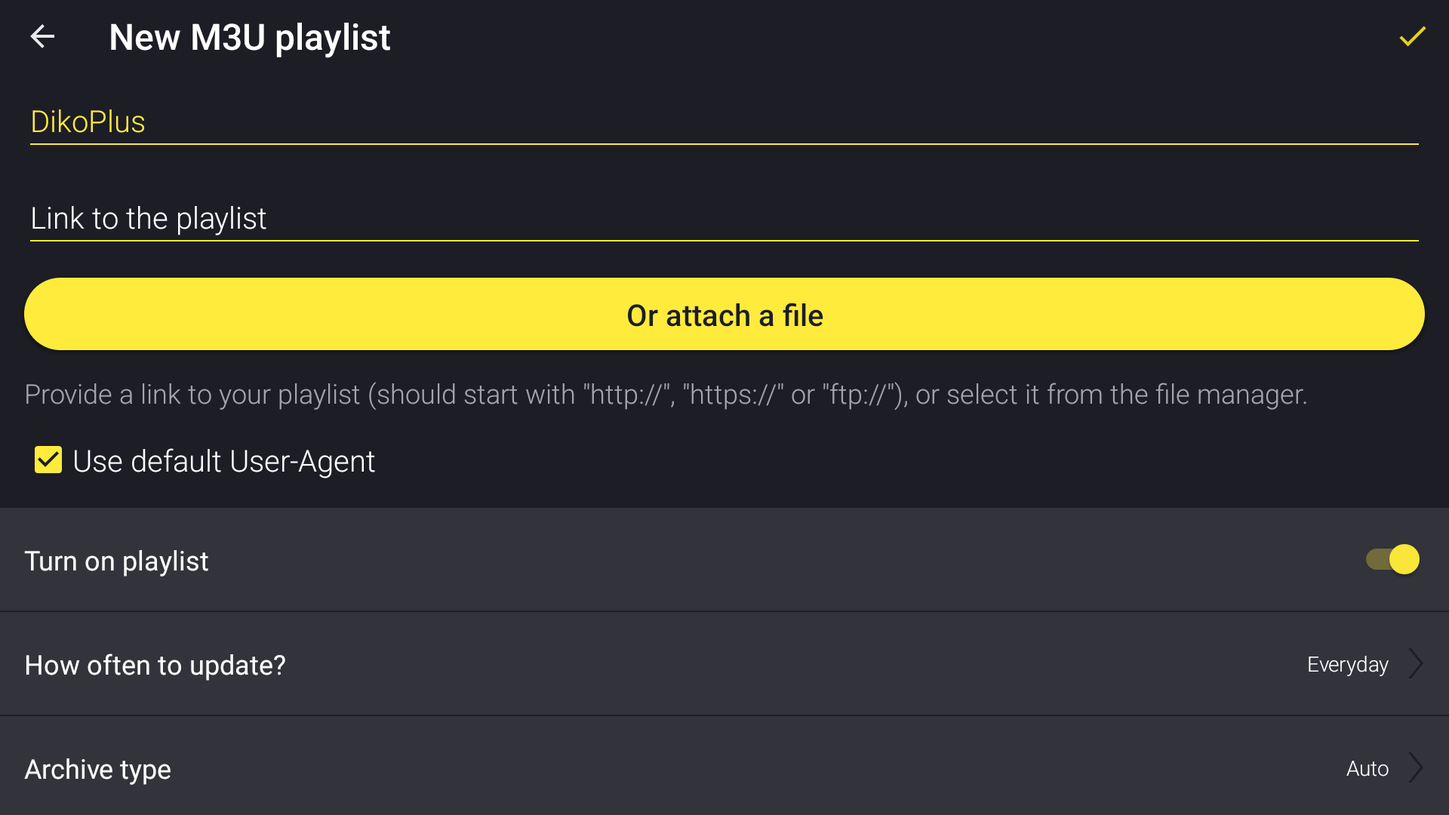
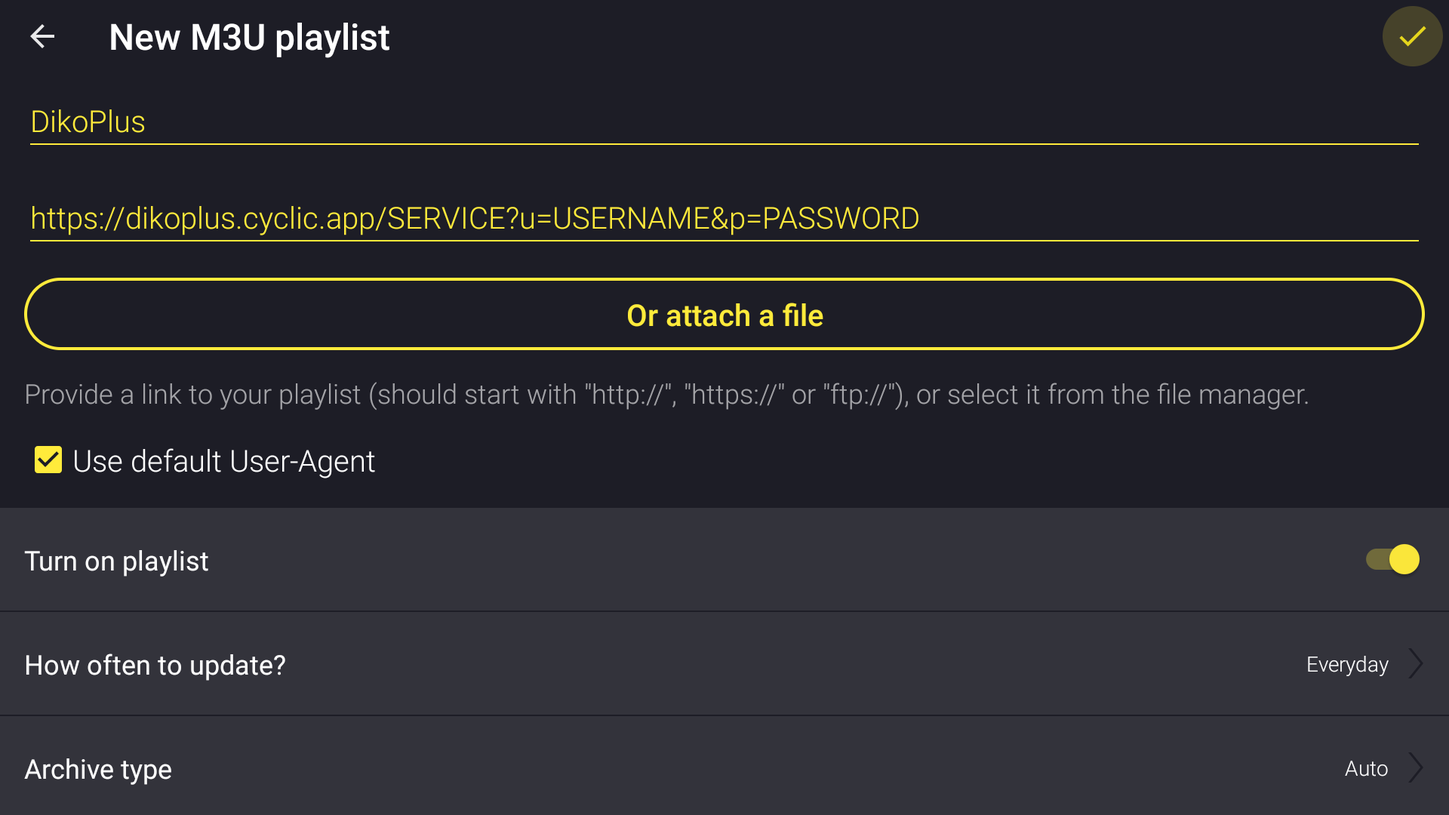
Updates descriptions for v2.0 in IPTV players

diff --git a/index.html b/index.html
@@ -108,11 +108,11 @@
     <p class="hebp">
         <h3 class="hebh3">!הודעות חשובות לקריאה לפני שימוש באשף יצירת הקובץ</h3>
         <ul dir="rtl">
-          <li>זה א שירות IPTV חינמי! כדי להשתמש בשירות זה אתם עדיין נדרשים לרכוש את השירות מאחד מספקי השירות המומלצים בקבוצה!</li>
+          <li>זה איננו שירות IPTV חינמי! כדי להשתמש בשירות זה אתם עדיין נדרשים לרכוש את השירות מאחד מספקי השירות המומלצים בקבוצה!</li>
           <li>לאחר רכישת אחד מהשירותים, הכלי הזה נועד על מנת לשפר את חווית המשתמש בשירותים הללו. כפי שניתן לראות בדוגמא בסרטון מעל, שימוש בכלי הזה מוסיף פלייליסט נוסף לנגן ה-IPTV שלכם עם ערוצי ישראל מסודרים בקבוצות, עם כל הלוגואים המעודכנים, עם השמות ערוצים הנכונים ובעברית ועם לוח שידורים מלא ומדוייק.</li>
-          <li>השירות הזה הינו כולו נכתב בקוד פתוח. הינכם מוזמנים לבחון את הקוד בעצמכם, אם תרצו בכך, כדי לראות שאנחנו לא שומרי אף פרט אישי במערכת, אלא רק מספקים את הקישורים המתאימים לפלייליסט.</li>
-          <li>הינכם נדרשים להוסיף את הפלייליסט לנגן שלכם פעם אחת בלבד. מתעדכנת באופן אוטומטי, גם בקישור הערוצים וגם בלוח השידורים.</li>
-          <li>לצערי, אין כרגע ספק לוח שידורים אחד שהינו יציב ומקיף את כל הערוצים. אני הצלחתי לייצר פלייליסט שכולל כמעט את כל הערוצים עם ספק לוח שידורים אלקטרוני אחד. קיימת אפשרות להוסיף יותר מספק לוח שידורים אחד על מנת לקבל לוח כמעט מלא לחלוטין. אפשרות זאת נתמכת על ידי מגוון נגנים,כגון; טיוימייט, טלויזו ו-IPTV Pro. אני עדיין עובד אם ספק לוח השידורים כדי להכיל את הכל ברשימה אחת.</li>
+          <li>השירות הזה הינו כולו נכתב בקוד פתוח. הינכם מוזמנים לבחון את הקוד בעצמכם, אם תרצו בכך, כדי לבחון ולראות שאנחנו לא שומרים אף פרט אישי במערכת, אלא רק מספקים את הקישורים המתאימים לפלייליסט.</li>
+          <li>הינכם נדרשים להוסיף את הפלייליסט לנגן שלכם פעם אחת בלבד. הפלייליסט יתעדכן באופן אוטומטי משינויים שנבצע בפלייליסט, גם בקישור הערוצים וגם בלוח השידורים.</li>
+          <li>לצערי, אין כרגע ספק לוח שידורים אחד שהינו יציב ומקיף את כל הערוצים. הצלחתי לייצר פלייליסט שכולל כמעט את כל הערוצים עם ספק לוח שידורים אלקטרוני אחד. במידה שנגן ה-IPTV שלכם תומך בהוספה של יותר מספק מלוח שידורים אחד, המדריך הזה יסביר לכם כיצד להוסיף אחד נוסף על מנת לקבל לוח כמעט מלא לחלוטין. אפשרות זאת נתמכת על ידי מגוון נגנים, כגון; טיוימייט, טלויזו ו-IPTV Pro.  כהערת צד, אני עדיין עובד אם ספק לוח השידורים מסויים כדי לנסות להכיל את הכל ברשימה אחת כדי לפשט את התהליך עוד יותר.</li>
         </ul>
     </p>
     <br><br>
@@ -123,7 +123,8 @@
     <div class="tab">
       <button class="tablinks" onclick="openCity(event, 'Tivimate')">Tivimate</button>
       <button class="tablinks" onclick="openCity(event, 'Televizo')">Televizo</button>
-      <button class="tablinks" onclick="openCity(event, 'General')">כללי</button>
+      <button class="tablinks" onclick="openCity(event, 'IPTVPro')">IPTV Pro</button>
+      <button class="tablinks" onclick="openCity(event, 'General')">נגן אחר</button>
     </div>
     
     <div id="Tivimate" class="tabcontent">
@@ -131,7 +132,10 @@
         <ul dir="rtl">
             <p>שימו לב!<br>התוכן פה מוצג תחת ההנחה שקניתם את גרסת הפרימיום של טיוימייט. הגרסה הפרוצה אונליין היא מאד ישנה ואיננה תומכת בכל האופציות המוצגות פה.</p>
           <h3>עקבו אחר הצעדים הבאים:</h3>
-          <li><b>שלב א׳: במידה ועדיין לא ביצעתם זאת, הוסיפו את השירות שרכשתם באופן רגיל, ללא קשר לפלייליסט הזה. השירות נותן לכם גישה לכל התכנים הנוספים של השירות שרכשתם. אם כבר ביצעתם את השלב הזה בעבר, אתם יכולים לדלג לשלב ב׳.</b></li>
+          <div class="alert">
+            <strong>שימו לב!<br></strong>במידה שהוספתם כבר את השירות שרכשתם לנגן שלכם, אתם יכולים לדלג על שלב א׳ ולעבור ישירות לשלב ב׳. שלב א׳ בהסבר מיועד למשתמשים חדשים שרק רכשו את השירות ומתחילים את ההגדרות כולן בשעם הראשונה.
+          </div>
+          <li><b>שלב א׳: הוסיפו את השירות שרכשתם באופן רגיל, ללא קשר לפלייליסט הזה. השירות נותן לכם גישה לכל התכנים הנוספים של השירות שרכשתם.</b></li>
             <ol>
               <li>לחצו על Add playlist</li>
                 <img src="img/tivimate-add-playlist.png" alt="Add playlist" class="inline"/><br>
@@ -183,51 +187,30 @@
       <p class="hebp">
         <ul dir="rtl">
           <h3>עקבו אחר הצעדים הבאים:</h3>
-            <div class="alert">
-              <strong>שימו לב!</strong> אם אתם רק צריכים לעדכן את הקובץ לגרסא חדשה, אתם יכולים לדלג על שלב א׳ של הוספת שירות דאטו/לייבגו. חשוב ביותר למחוק את הפלייליסט לפני שאתם טוענים את הקובץ מחדש.
-            </div>
-          <li><b>שלב א׳: הוסיפו את שירות דאטו/לייבגו באופן רגיל, ללא קשר לפלייליסט הזה. השירות נותן לכם גישה לכל התכנים הנוספים של שירות זה.</b></li>
+          <div class="alert">
+            <strong>שימו לב!<br></strong>במידה שהוספתם כבר את השירות שרכשתם לנגן שלכם, אתם יכולים לדלג על שלב א׳ ולעבור ישירות לשלב ב׳. שלב א׳ בהסבר מיועד למשתמשים חדשים שרק רכשו את השירות ומתחילים את ההגדרות כולן בשעם הראשונה.
+          </div>
+          <li><b>שלב א׳: הוסיפו את השירות שרכשתם באופן רגיל, ללא קשר לפלייליסט הזה. השירות נותן לכם גישה לכל התכנים הנוספים של השירות שרכשתם.</b></li>
             <ol>
-              <li><b>לחץ על Create playlist. במידה וקיבלתם הודעה שזהו נגן בלבד ואינו מכיל תוכן, תאשרו.</b></li>
+              <li>לחץ על Create playlist. במידה וקיבלתם הודעה שזהו נגן בלבד ואינו מכיל תוכן, תאשרו.</li>
                 <img src="img/televizo-livego-1.png" alt="Add playlist" class="inline"/><br>
               <li>בחרו את האופציה New Xtream Codes playlist.</li>
                 <img src="img/televizo-livego-2.png" alt="Add Xtream Codes" class="inline"/><br>
-              <li>הקלידו את הנתונים שניתנו לכם מספק השירות, כולל שם לפלייליסט, את כתובת השרת, שם המשתמש והסיסמה. בסיום, לחצו על האישור בפינה הימנית העליונה. במידה וקיבלתם הודעת אזהרה שטלויזו איננה אחראית לתוכן הפלייליסט, תאשרו.</li>
+              <li>הקלידו את הנתונים שניתנו לכם מספק השירות, כולל שם לפלייליסט, את כתובת השרת (בדוגמה בתמונה מוצג שירות לייבגו), שם המשתמש והסיסמה. בסיום, לחצו על האישור בפינה הימנית העליונה. במידה וקיבלתם הודעת אזהרה שטלויזו איננה אחראית לתוכן הפלייליסט, תאשרו.</li>
                 <img src="img/televizo-livego-3.png" alt="Xtream Codes setup" class="inline"/><br>
               <li>המערכת תזהה ותנתח את פרטי השירות במשך כמה שניות ואז תציג את כל הערוצים והתוכן ה-VOD שקיים בשירות. במידה וקיבלתם שגיאה, אנא חזרו אחרוה צעד אחד ובידקו את נכונות הפרטים שסיפקתם בשלב הקודם.</li>
                 <img src="img/televizo-livego-4.png" alt="Playlist added" class="inline"/><br>
-              <li>לאחר מספר שניות המערכת תסיים את ההוספה של השירות. אתם יכולים, לדוגמא, לפנות לעבר קטגוריית Hebrew לראות את מה שמסופק כברירת מחדל על ידי השירות. טיפ קטן, בפינה הימנית העליונה אתם יכולים לשנות את אופן התצוגה בהתאם לבחירתכם האישית.</li>
+              <li>לאחר מספר שניות המערכת תסיים את ההוספה של השירות. אתם יכולים, לדוגמא, לפנות לעבר קטגוריית העברית לראות את מה שמסופק כברירת מחדל על ידי השירות. טיפ קטן, בפינה הימנית העליונה אתם יכולים לשנות את אופן התצוגה בהתאם לבחירתכם האישית.</li>
                 <img src="img/televizo-livego-5.png" alt="Default Hebrew in LiveGo" class="inline"/><br>
             </ol>
-          <li><b>שלב ב׳: העברת הקובץ מהמחשב למכשיר הסטרימר ניתנת לביצוע בכמה דרכים. אני אפרט פה את אחת מהן. אתם מוזמנים לבצע זאת באיזו דרך שתרצו.</b></li>
-            <ol>
-              <li>מהמחשב שבו יצרתם את הקובץ, גשו בדפדפן לכתובת <a href="http://www.jocala.com/adblink2.html">http://www.jocala.com/adblink2.html</a>, הורד את התוכנה בהתאם למערכת ההפעלה שלך והפעל אותה.</li>
-                <img src="img/adblink-app.png" alt="AdbLink" class="inline"/><br>
-              <li>לחצו על New וספק את הפרטים הבאים: Description - שם פשוט עבור הסטרימר, Address - כתובת ה-IP של הסטרימר שלכם, Pull folder - הפנו את האפליקציה לעבר תיקיית ההורדות שלכם.</li>
-                <img src="img/adblink-device-setup.png" alt="AdbLink Dvice Setup" class="inline"/><br>
-              <li>לחצו על Connect. שימו לב שבפעם הראשונה שתנסו זאת תקבלו הודעת שגיאת התחברות! על מסך הטלויזיה שלכם אשרו את ניסיון ההתחברות כדי לאפשר זאת ונסו שוב להתחבר לסטרימר.</li>
-                <img src="img/adblink-connected.png" alt="AdbLink Connected" class="inline"/><br>
-              <li>לחצו על File manager, כאן תראו את מערכת הקבצים של מכשיר הסטרימר שלכם. בצד שמאל של המסך שנפתח, הקליקו פעמיים על תיקיית Download כדי לפתוח אותה.</li>
-                <img src="img/adblink-file-manager.png" alt="AdbLink File Manager" class="inline"/><br>
-              <li>לחצו על Push, בחלון שנפתח חפשו את הקובץ DikoPlus.m3u שיצרתם קודם באמצעות אשץ זה ולחצו על Choose כדי להעביר את הקובץ למכשיר הסטרימר.</li>
-                <img src="img/adblink-m3u-pushed.png" alt="AdbLink file pushed" class="inline"/><br>
-              <li>בשלב זה ניתן להתנתק ממכשיר הסטרימר. סגרו את חלון ה-File manager ולחצו על כפתור ה-Disconnect. אתם יכולים לסגור את האפליקציה במחשב לפנות חזרה למכשיר הסטרימר כדי להמשיך.</li>
-                <img src="img/adblink-disconnected.png" alt="AdbLink Disconnected" class="inline"/><br>
-            </ol>
-            <li><b>שלב ג׳: התקנת הקובץ המותאם אישית על מכשיר הסטרימר.</b></li>
+            <li><b>שלב ב׳: הגדרת הפלייליסט המותאם אישית על מכשיר הסטרימר.</b></li>
             <ol>
               <li>במסך הראשי של טלויזו, היכנסו להגדרות בפינה בימנית העליונה. בחרו באופציה הראשונה כדי להיכנס להגדרות ה-Playlists.</li>
                 <img src="img/televizo-dikoplus-1.png" alt="Add playlist" class="inline"/><br>
               <li>לחצו על סימן הפלוס בפינה בימנית העליונה כדי להוסיף פלייליסט נוסף. לאחר מכן, בחרו באופציה New M3U playlist.</li>
                 <img src="img/televizo-dikoplus-2.png" alt="Add playlist" class="inline"/><br>
-              <li>ספקו שם לפלייליסט. אני אשתמש ב-DikoPlus למטרת ההדגמה. בחרו את האופציה Or attach a file. אם תקבלו בקשה לאשר גישה למערכת הקבצים, אנא אשרו אותר.</li>
+              <li>הוסיפו שם שתרצו עבור הפלייליסט הנוסף והקלידו את לינק שירות ה-DikoPlus שיצרתם בשלב הראשון של המדריך הזה. </li>
                 <img src="img/televizo-dikoplus-3.png" alt="Add playlist" class="inline"/><br>
-              <li>בחרו באופצייה Open file manager. אם תקבלו בקשה לאשר גישה למערכת הקבצים, אנא אשרו אותה. חשוב לציין באתם צריכים לוודא שמותקנת לכם אפליקציית ניהול מערכת הקבצים כדי לזה יפעל נכונה. במקרה שלי אני משתמש ב-+File Manager אבל כל אפליקצייה תואמת תעבוד.</li>
-                <img src="img/televizo-dikoplus-4.png" alt="Add playlist" class="inline"/><br>
-              <li>נווטו לתיקיית Download ובחרו בקובץ DikoPlus.m3u.</li>
-                <img src="img/televizo-dikoplus-5.png" alt="Add playlist" class="inline"/><br>
-              <li>לחצו לאישור ההוספה בפינה הימנית העליונה של המסך.</li>
-                <img src="img/televizo-dikoplus-6.png" alt="Add playlist" class="inline"/><br>
               <li>על המסך תוכלו לראות את שני הפלייליסטים עכשיו. לחצו אחורה פעם אחת בשלט והיכסו להגדרות ה-Program guide.</li>
                 <img src="img/televizo-dikoplus-7.png" alt="Add playlist" class="inline"/><br>
               <li>בפינה הימנית העליונה הקישו על סימן הפלוס כדי להוסיף עוד מקור לוח שידורים נוסף. ספקו אם השם <code>Antifriz</code> ואת הקישור <code>https://antifriztv.com/xmltv.xml.gz</code>. לחצו על אישור בסיום בפינה הימנית העליונה.</li>
@@ -239,16 +222,48 @@
        </p>
      </div>
 
+     <div id="IPTVPro" class="tabcontent">
+      <p class="hebp">
+        <ul dir="rtl">
+          <h3>עקבו אחר הצעדים הבאים:</h3>
+          <div class="alert">
+            <strong>שימו לב!<br></strong>במידה שהוספתם כבר את השירות שרכשתם לנגן שלכם, אתם יכולים לדלג על שלב א׳ ולעבור ישירות לשלב ב׳. שלב א׳ בהסבר מיועד למשתמשים חדשים שרק רכשו את השירות ומתחילים את ההגדרות כולן בשעם הראשונה.
+          </div>
+          <li><b>שלב א׳: הוסיפו את השירות שרכשתם באופן רגיל, ללא קשר לפלייליסט הזה. השירות נותן לכם גישה לכל התכנים הנוספים של השירות שרכשתם.</b></li>
+            <ol>
+              <li>במסך הראשי, לחצו על Add playlist ולאחר מכן בפינה הימנית העליונה על Add URL.</li>
+                <img src="img/iptvpro-livego-1.png" alt="Add playlist" class="inline"/><br>
+              <li>במסך הבא הקלידו את פרטי הקישור שקיבלתם מספק השירות שלכם והקישו OK.</li>
+                <img src="img/iptvpro-livego-2.png" alt="Add Xtream Codes" class="inline"/><br>
+              <li>לאחר כדקה או שתיים השירות ייטען למסך. בזמן זה אתם יכולים לנווט לאזור העברית ולצפות במה שניתן על ידי הספק כברירת מחדל.</li>
+                <img src="img/iptvpro-livego-3.png" alt="Xtream Codes setup" class="inline"/><br>
+            </ol>
+            <li><b>שלב ב׳: הגדרת הפלייליסט המותאם אישית על מכשיר הסטרימר.</b></li>
+            <ol>
+              <li>בפינה השמאלית העליונה, הקישו על פתיחת התפריט ובחרו Settings. לאחר מכן, לחצו על Playlists.</li>
+                <img src="img/iptvpro-dikoplus-1.png" alt="Add playlist" class="inline"/><br>
+              <li>בתוך אזור הפלייליסטים, בפינה הימנית העליונה, לחצו על סימן הפלוס ובחרו Add URL. בחלון שנפתח, הקלידו את לינק השירות של DikoPlus שיצרתם בשלב הראשון של המדריך הזה.</li>
+                <img src="img/iptvpro-dikoplus-2.png" alt="Add playlist" class="inline"/><br>
+              <li>לאחר הוספת הפלייליסט, לחצו בפינה השמאלית העליונה על התפריט ובחרו באופציה Settings. לאחר מכן, היכנסו ל-EPG sources.</li>
+                <img src="img/iptvpro-dikoplus-3.png" alt="Add playlist" class="inline"/><br>
+              <li>בפינה הימנית העליונה, לחצו על סימן הפלוס ומחרו את האופציה Add URL.</li>
+                <img src="img/iptvpro-dikoplus-4.png" alt="Add playlist" class="inline"/><br>
+              <li>הקלידו את הכתובת הבאה כמקור נוסף: <code>https://antifriztv.com/xmltv.xml.gz</code> לחצו על OK בסיום.</li>
+                <img src="img/iptvpro-dikoplus-5.png" alt="Add playlist" class="inline"/><br>
+              <li>שימו לב שעדכון לוח השידורים לוקח כמה דקות, אז לא להיבהל אם אתם לא רואים את הערוצים מעודכנים מיד. חזרו חזרה למסך הראשי של טלויזו ובחרו לעבור לפלייליסט DikoPlus מהתפריט בפינה השמאלית העליונה.</li>
+                <img src="img/iptvpro-dikoplus-6.png" alt="Add playlist" class="inline"/><br>
+            </ol>
+        </ul>
+       </p>
+     </div>
+
      <div id="General" class="tabcontent">
       <p class="hebp">
         <ul dir="rtl">
           <h3>הגדרות כלליות:</h3>
-          <li>כיוון שקיימים מספר רב של סוגי נגנים, אינני יכול לנסות את כולם. להלן מספר כללים עקרוניים.</li>
-          <li>במידה והנגן שלכם לא תומך בקובץ מקומי או שלא ניתן להעביר את הקובץ למכשיר הסטרימר, העלו את הקובץ שנוצר לשירות ענן כלשהו, כגון: Google Drive, Dropbox, OneDrive, תייצרו קישור שיתוף עבור הקובץ ותשתמשו בקישור כדי לספק את מיקום הקובץ בנגן.</li>
-            <ol>
-                <li>חשוב לציין שהקישור שנוצר צריך לתמוך בהורדה של הקובץ ולא רק צפייה! תבצעו חיפוש אונליין כדי לוודא אילו שינויים צריכים לבצע עם שירות הענן שלכם כדי לתמוך בזאת.</li>
-            </ol>
-          <li>במידה והנגן לא יודע כיצד למשוך באופן אוטומטי את לוח השידורים, ספקו לו באופן ידני בהגדרות את הקישור הבא: <code>http://bit.ly/iptv-diko</code>.</li>
+          <li>כיוון שקיימים מספר רב של סוגי נגנים, אינני יכול לנסות את כולם. ולכן, להלן מספר כללים עקרוניים.</li>
+          <li>לאחר שהכנתם את הקישור עבור השירות שלכם בלשב א׳ של המדריך, הוסיפו את הקישור בתוך הנגן שלכם כקישור אונליין לפלייליסט מסוג M3U.</li>
+          <li>במידה והנגן לא יודע כיצד למשוך באופן אוטומטי את לוח השידורים (תוכלו לבדוק זאת בהגדרות לוח השידורים על ידי בדיקה אם התווסף לוח שידורים ממקור github), ספקו לו באופן ידני בהגדרות את הקישור הבא: <code>http://bit.ly/iptv-diko</code>.</li>
           <li>במידה והנגן תומך ביכולת לספק יותר מלוח שידורים אחד, הוסיפו ספק נוסף עם הקישור הבא: <code>https://antifriztv.com/xmltv.xml.gz</code>.</li>
         </ul>
       </p>
